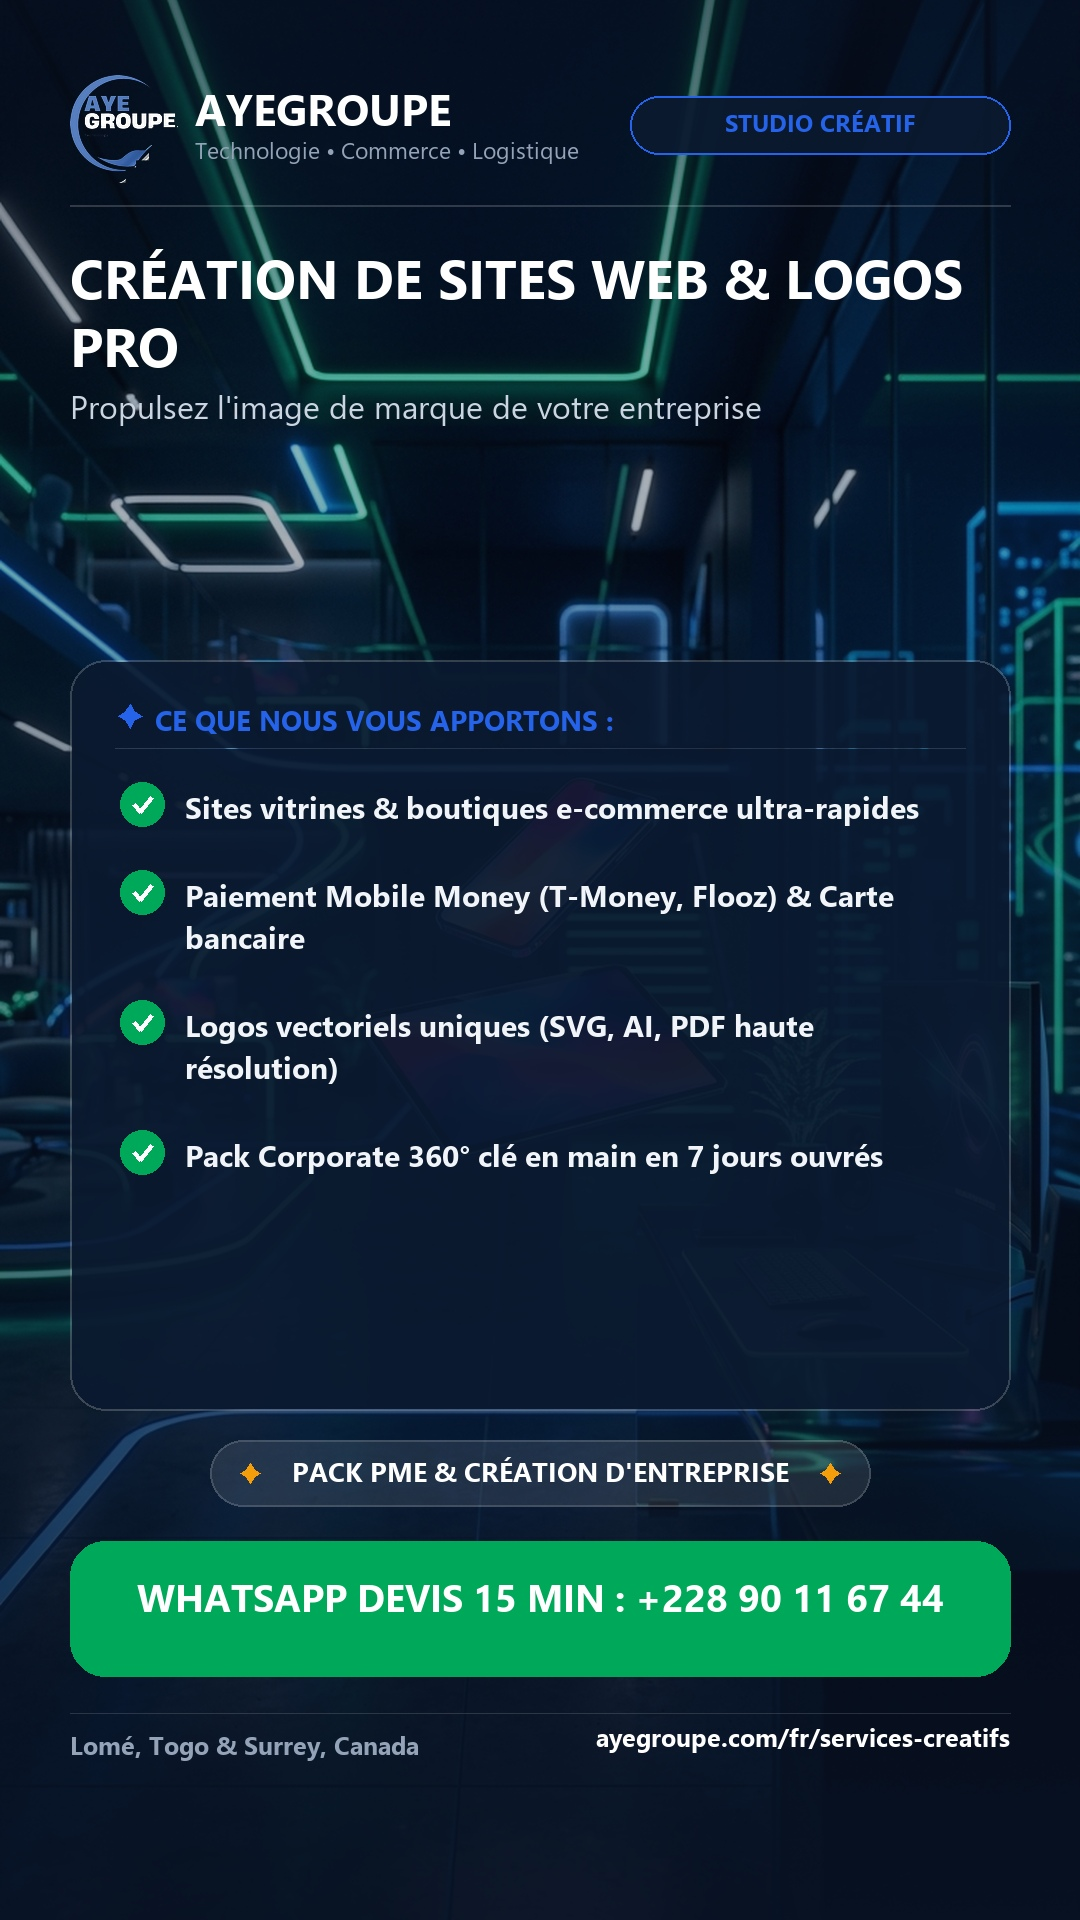
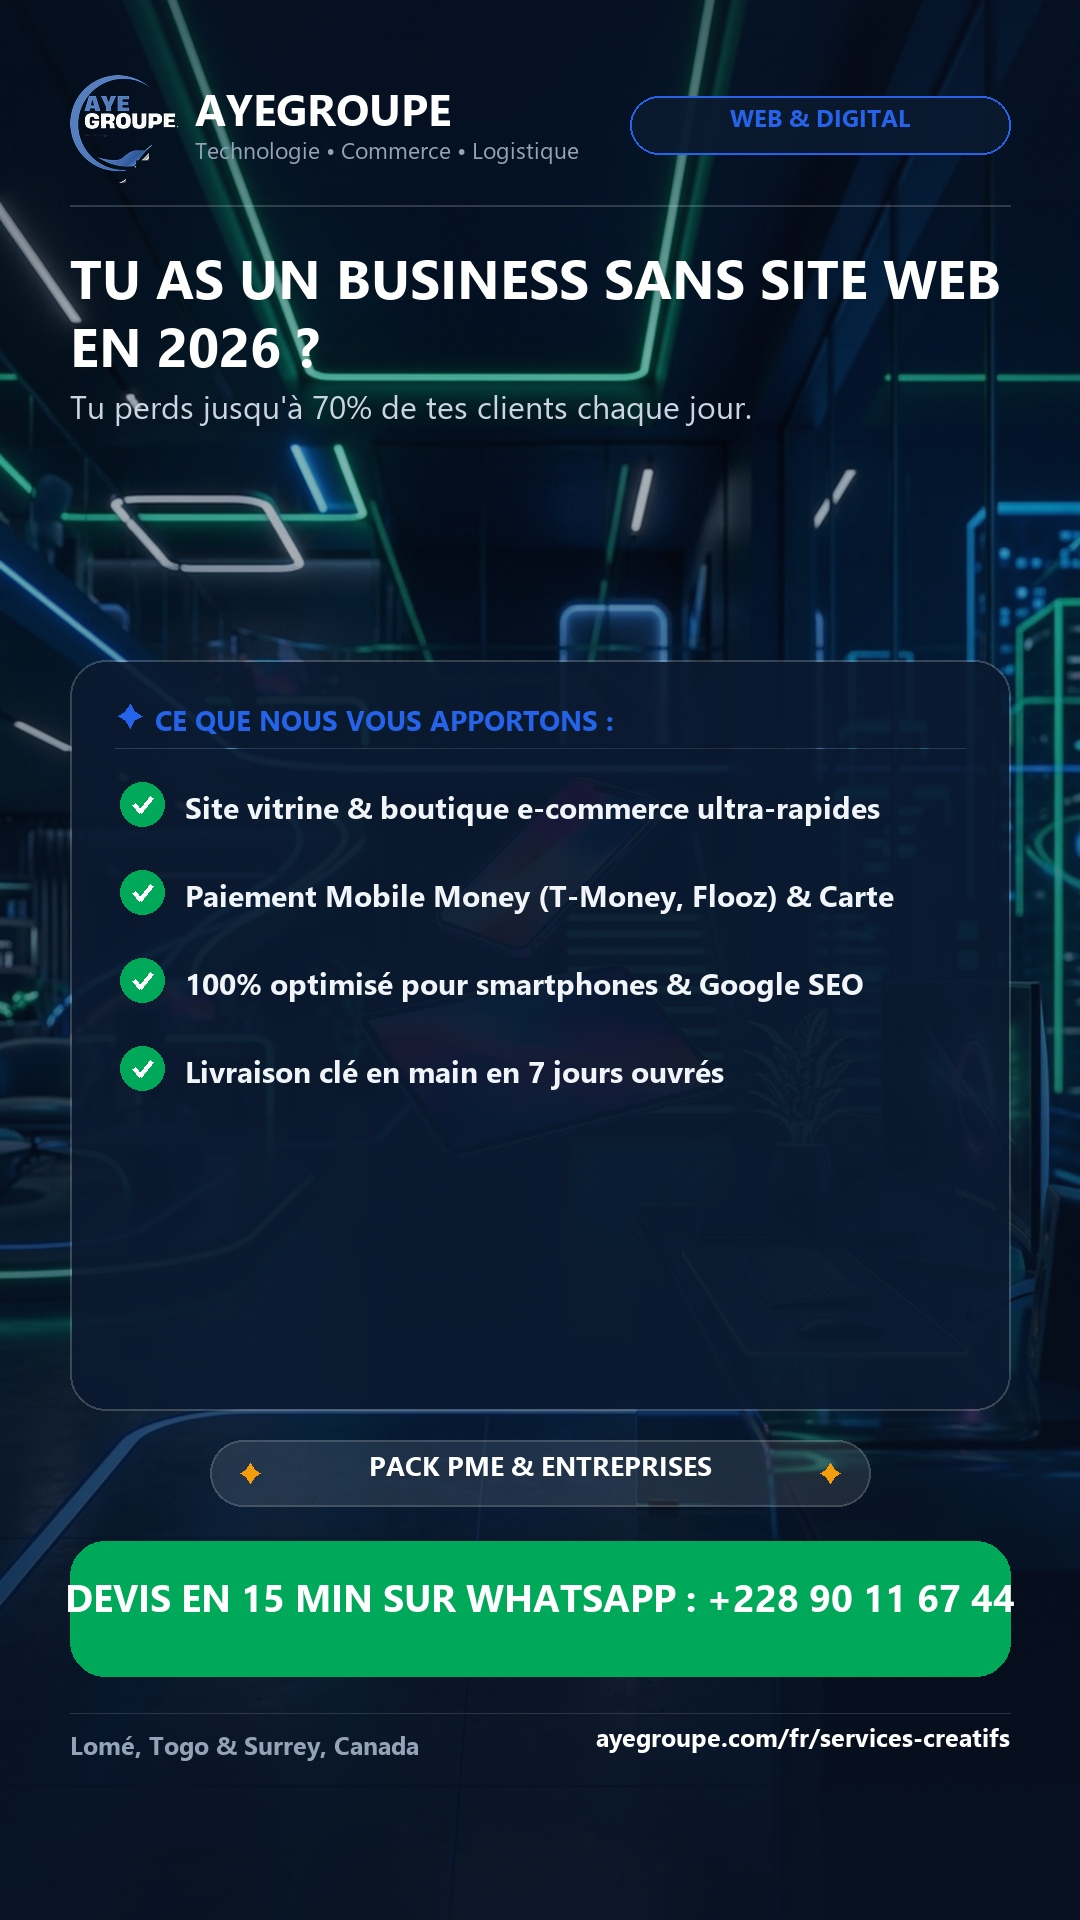
feat(tiktok): generate all 24 posters from the shared data
Only 5 of the 24 existed as finished posters; the rest were drawn in the
browser with a different layout and different wording, so publishing the
series would have looked like two unrelated campaigns. The generator now
reads public/tiktok-visuals.json — the same source the studio displays —
so every poster carries the direct, hook-style copy written for TikTok.

Visuals without a photo get a themed gradient in the identical layout,
and every call to action uses the brand green rather than the category
accent, which is how action is signalled across the site.

diff --git a/scripts/build_official_tiktok_images.py b/scripts/build_official_tiktok_images.py
@@ -1,4 +1,7 @@
+import io
+import json
 import os
+import re
 from PIL import Image, ImageDraw, ImageFont
 
 def create_cinematic_gradient(width, height):
@@ -54,21 +57,39 @@ def generate_tiktok_poster(
     cta_color,
     footer_left,
     footer_right,
-    theme_accent=(37, 99, 235)
+    theme_accent=(37, 99, 235),
+    gradient_stops=None
 ):
     target_w, target_h = 1080, 1920
     
-    # 1. Load and scale background
-    bg = Image.open(bg_path).convert('RGB')
-    bg_w, bg_h = bg.size
-    
-    scale = max(target_w / bg_w, target_h / bg_h)
-    new_w, new_h = int(bg_w * scale), int(bg_h * scale)
-    bg = bg.resize((new_w, new_h), Image.Resampling.LANCZOS)
-    
-    left = (new_w - target_w) // 2
-    top = (new_h - target_h) // 2
-    bg = bg.crop((left, top, left + target_w, top + target_h))
+    # 1. Fond : photo si disponible, sinon degrade thematique.
+    # Toutes les affiches partagent ainsi la meme mise en page, qu'une photo
+    # existe ou non pour ce visuel.
+    if bg_path:
+        bg = Image.open(bg_path).convert('RGB')
+        bg_w, bg_h = bg.size
+
+        scale = max(target_w / bg_w, target_h / bg_h)
+        new_w, new_h = int(bg_w * scale), int(bg_h * scale)
+        bg = bg.resize((new_w, new_h), Image.Resampling.LANCZOS)
+
+        left = (new_w - target_w) // 2
+        top = (new_h - target_h) // 2
+        bg = bg.crop((left, top, left + target_w, top + target_h))
+    else:
+        stops = gradient_stops or [(10, 25, 47), (14, 42, 77), (30, 58, 138)]
+        bg = Image.new('RGB', (target_w, target_h))
+        bg_draw = ImageDraw.Draw(bg)
+        segments = len(stops) - 1
+        for y in range(target_h):
+            pos = y / (target_h - 1) * segments
+            i = min(int(pos), segments - 1)
+            t = pos - i
+            c0, c1 = stops[i], stops[i + 1]
+            bg_draw.line(
+                [(0, y), (target_w, y)],
+                fill=tuple(int(c0[k] + (c1[k] - c0[k]) * t) for k in range(3))
+            )
     
     # 2. Cinematic overlay
     overlay = create_cinematic_gradient(target_w, target_h)
@@ -226,120 +247,63 @@ def generate_tiktok_poster(
 
 brain_dir = "C:/Users/HP/.gemini/antigravity-ide/brain/85fa634b-7d53-4338-b68e-8e6f2a90fa64"
 
-configs = [
-    {
-        "bg": f"{brain_dir}/bg_studio_creatif_clean_1790984870355.jpg",
-        "out": "public/images/tiktok/tiktok-01-studio-creatif.jpg",
-        "category": "STUDIO CRÉATIF",
-        "badge_color": (37, 99, 235),
-        "title": "CRÉATION DE SITES WEB & LOGOS PRO",
-        "subtitle": "Propulsez l'image de marque de votre entreprise",
-        "bullets": [
-            "Sites vitrines & boutiques e-commerce ultra-rapides",
-            "Paiement Mobile Money (T-Money, Flooz) & Carte bancaire",
-            "Logos vectoriels uniques (SVG, AI, PDF haute résolution)",
-            "Pack Corporate 360° clé en main en 7 jours ouvrés"
-        ],
-        "tag": "PACK PME & CRÉATION D'ENTREPRISE",
-        "cta": "WHATSAPP DEVIS 15 MIN : +228 90 11 67 44",
-        "cta_color": (0, 168, 89),
-        "footer_left": "Lomé, Togo & Surrey, Canada",
-        "footer_right": "ayegroupe.com/fr/services-creatifs"
-    },
-    {
-        "bg": f"{brain_dir}/bg_logistique_lome_clean_1790984885824.jpg",
-        "out": "public/images/tiktok/tiktok-06-logistique-lome.jpg",
-        "category": "LOGISTIQUE & FRET",
-        "badge_color": (245, 158, 11),
-        "title": "TRANSIT PORT DE LOMÉ & ENTREPOSAGE",
-        "subtitle": "Acheminement fiable et sécurisé de vos marchandises",
-        "bullets": [
-            "Enlèvement rapide de conteneurs & Zéro surestarie",
-            "Flotte de camions porte-conteneurs géolocalisés GPS",
-            "Espaces d'entreposage modernes & gardés 24h/24",
-            "Corridors régionaux vers le Burkina, Mali et Niger"
-        ],
-        "tag": "PORT AUTONOME DE LOMÉ (PAL)",
-        "cta": "COTATION EXPRESS WHATSAPP : +228 90 11 67 44",
-        "cta_color": (217, 119, 6),
-        "footer_left": "Port Autonome de Lomé, Togo",
-        "footer_right": "ayegroupe.com/fr/togo/logistique"
-    },
-    {
-        "bg": f"{brain_dir}/bg_import_export_clean_1790984900206.jpg",
-        "out": "public/images/tiktok/tiktok-11-import-export.jpg",
-        "category": "IMPORT-EXPORT",
-        "badge_color": (245, 158, 11),
-        "title": "SOURCING MONDIAL & DÉDOUANEMENT",
-        "subtitle": "Votre passerelle d'affaires Chine, Dubaï et Europe",
-        "bullets": [
-            "Sourcing & audit d'usines certifiées (Chine, Turquie, Dubaï)",
-            "Fret maritime conteneurs (FCL) & Groupage sécurisé (LCL)",
-            "Dédouanement rapide sur le Guichet Unique (GUCE)",
-            "Zéro risque fournisseur & conformité douanière totale"
-        ],
-        "tag": "0 RISQUE FOURNISSEUR • GUCE CONFORME",
-        "cta": "CONTACTEZ NOS EXPERTS : +228 90 11 67 44",
-        "cta_color": (217, 119, 6),
-        "footer_left": "Hub Lomé, Togo & International",
-        "footer_right": "ayegroupe.com/fr/togo/import-export"
-    },
-    {
-        "bg": f"{brain_dir}/bg_it_bureautique_clean_1790984930525.jpg",
-        "out": "public/images/tiktok/tiktok-15-it-bureautique.jpg",
-        "category": "IT & BUREAUTIQUE",
-        "badge_color": (37, 99, 235),
-        "title": "MATÉRIEL INFORMATIQUE & MOBILIER PRO",
-        "subtitle": "Équipez vos bureaux avec du matériel certifié",
-        "bullets": [
-            "PC Portables Dell, HP, Lenovo neufs sous garantie constructeur",
-            "Câblage structuré réseau Cat6/Cat7, Baies & Wi-Fi pro",
-            "Mobilier ergonomique de bureau & fauteuils de direction",
-            "Contrat de maintenance informatique & infogérance PME"
-        ],
-        "tag": "MATÉRIEL GARANTI AVEC SAV À LOMÉ",
-        "cta": "WHATSAPP CATALOGUE : +228 90 11 67 44",
-        "cta_color": (0, 168, 89),
-        "footer_left": "Sièges & Bureaux à Lomé, Togo",
-        "footer_right": "ayegroupe.com/fr/togo/it-bureautique"
-    },
-    {
-        "bg": f"{brain_dir}/bg_ayeprep_saas_clean_1790984980813.jpg",
-        "out": "public/images/tiktok/tiktok-20-ayeprep-saas.jpg",
-        "category": "EDTECH • AYEPREP.COM",
-        "badge_color": (16, 185, 129),
-        "title": "RÉUSSISSEZ LE TCF & TEF CANADA AVEC L'IA",
-        "subtitle": "La 1ère plateforme EdTech d'entraînement par IA",
-        "bullets": [
-            "Simulateur d'expression orale avec IA vocale interactive",
-            "Corrections instantanées de vos expressions écrites",
-            "Des centaines d'examens blancs conformes aux vrais tests",
-            "Atteignez le niveau C1/C2 (CLB 10) pour votre immigration"
-        ],
-        "tag": "PLATEFORME OFFICIELLE • 100% EN LIGNE",
-        "cta": "TESTEZ GRATUITEMENT SUR AYEPREP.COM",
-        "cta_color": (16, 185, 129),
-        "footer_left": "Produit SaaS édité par AYEGROUPE",
-        "footer_right": "ayeprep.com"
-    }
-]
+# Les 24 affiches sont generees depuis public/tiktok-visuals.json : meme source
+# que le studio, pour que le texte publie corresponde toujours a ce qui est
+# affiche a l'ecran. Les visuels sans photo recoivent un degrade thematique,
+# afin que la serie reste homogene.
 
-for cfg in configs:
+PHOTOS = {
+    1:  f"{brain_dir}/bg_studio_creatif_clean_1790984870355.jpg",
+    6:  f"{brain_dir}/bg_logistique_lome_clean_1790984885824.jpg",
+    11: f"{brain_dir}/bg_import_export_clean_1790984900206.jpg",
+    15: f"{brain_dir}/bg_it_bureautique_clean_1790984930525.jpg",
+    20: f"{brain_dir}/bg_ayeprep_saas_clean_1790984980813.jpg",
+}
+
+SLUGS = {
+    "creative": "studio-creatif", "logistics": "logistique", "trade": "import-export",
+    "it_hardware": "it-bureautique", "saas_tech": "saas", "contact": "contact",
+}
+
+
+def hex_to_rgb(value):
+    value = value.lstrip('#')
+    return tuple(int(value[i:i + 2], 16) for i in (0, 2, 4))
+
+
+def gradient_from_theme(theme):
+    """Extrait les arrets de couleur de la classe Tailwind du visuel."""
+    stops = [hex_to_rgb(m) for m in re.findall(r'#([0-9A-Fa-f]{6})', theme or '')]
+    return stops if len(stops) >= 2 else None
+
+
+with io.open('public/tiktok-visuals.json', encoding='utf-8') as fh:
+    visuals = json.load(fh)
+
+os.makedirs('public/images/tiktok', exist_ok=True)
+
+for v in visuals:
+    accent = hex_to_rgb(v.get('accentColor') or '#2563EB')
+    slug = SLUGS.get(v['category'], 'visuel')
+    out = f"public/images/tiktok/tiktok-{v['id']:02d}-{slug}.jpg"
+
     generate_tiktok_poster(
-        bg_path=cfg["bg"],
-        output_path=cfg["out"],
-        category_badge=cfg["category"],
-        badge_color=cfg["badge_color"],
-        main_title=cfg["title"],
-        subtitle=cfg["subtitle"],
-        bullets=cfg["bullets"],
-        tag_text=cfg["tag"],
-        cta_text=cfg["cta"],
-        cta_color=cfg["cta_color"],
-        footer_left=cfg["footer_left"],
-        footer_right=cfg["footer_right"]
+        bg_path=PHOTOS.get(v['id']),
+        output_path=out,
+        category_badge=(v.get('badge') or v['categoryName']).upper(),
+        badge_color=accent,
+        main_title=v['hook'].upper(),
+        subtitle=v.get('subtitle', ''),
+        bullets=v.get('points', []),
+        tag_text=(v.get('tag') or '').upper(),
+        cta_text=(v.get('ctaText') or '').upper(),
+        # Vert de marque pour TOUS les appels a l'action : c'est la couleur
+        # d'action sur l'ensemble du site, elle ne doit pas varier par theme.
+        cta_color=(0, 168, 89),
+        footer_left="Lomé, Togo & Surrey, Canada",
+        footer_right=v.get('website', 'ayegroupe.com'),
+        theme_accent=accent,
+        gradient_stops=gradient_from_theme(v.get('themeGradient')),
     )
-    fname = os.path.basename(cfg["out"])
-    brain_copy = f"{brain_dir}/{fname}"
-    Image.open(cfg["out"]).save(brain_copy)
-    print(f"Copied to brain: {brain_copy}")
+
+print(f"\n{len(visuals)} affiches generees.")
